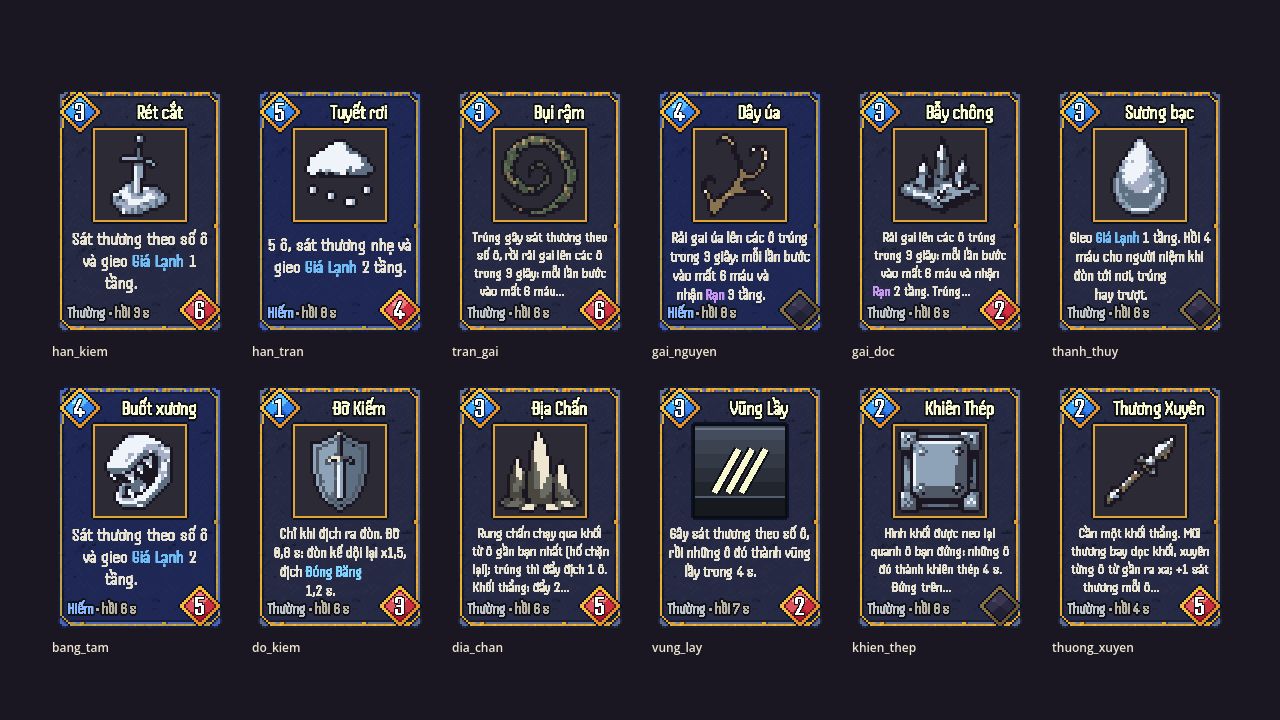
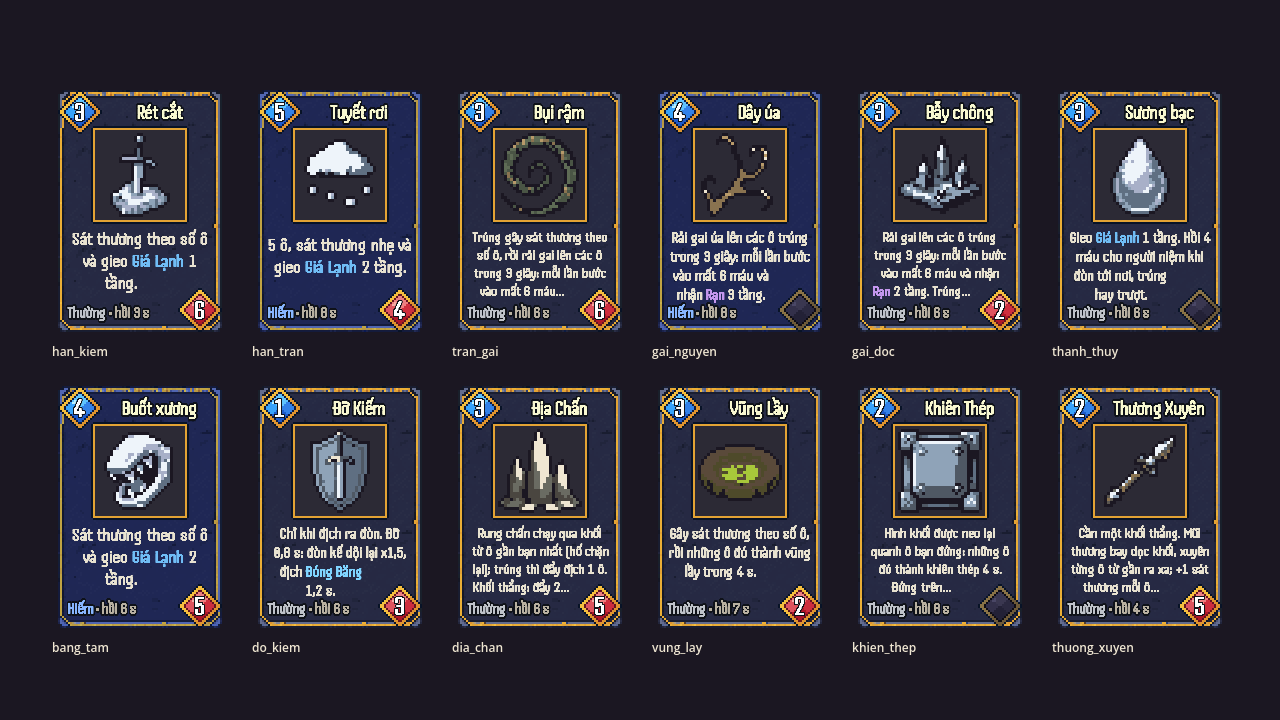
feat: card art for cuong_phong and vung_lay, all 62 cards now have art
- cuong_phong: curled ram horn (battering-ram concept failed 5 times)
- vung_lay: mire puddle with green bubbles; tessera_master.gpl gains the
  mire signal colours #A8C83A / #4E4A2A (67 entries, 3 over the 64 cap,
  user decision)
- registry: two new card.* entries installed (acceptance unknown)
- in-game gallery recaptured (production/qa/evidence/card-art)

Design: design/assets/references/ui/card-art.md,
design/assets/candidates/ui/card-art/batch3/REPORT-2026-11-13.md §11

Changed region(s): [[0.5312, 0.5806, 0.625, 0.7028]]

diff --git a/design/assets/asset-manifest.md b/design/assets/asset-manifest.md
@@ -8,9 +8,9 @@ Lifecycle: `candidate → accepted → installed → approved`; `legacy` = repla
 
 | Total | Candidate | Accepted | Installed | Approved | Legacy |
 |---|---|---|---|---|---|
-| 284 | 6 | 0 | 199 | 75 | 4 |
+| 286 | 6 | 0 | 201 | 75 | 4 |
 
-Acceptance recorded: unknown 196, pending 14, accepted 74, rejected 0.
+Acceptance recorded: unknown 198, pending 14, accepted 74, rejected 0.
 
 ## Needs the user's decision
 
@@ -332,6 +332,8 @@ Clip marks: `*` approved by the user, `+` accepted, `?` acceptance unknown, `!` 
 | `card.han_phong` | Card art 32x32: han_phong | `assets/art/cards/han_phong.png` | 32x32 | **installed** | unknown | no record | `design/assets/candidates/ui/card-art/batch3/prompts.json` |  |
 | `card.han_tran` | Card art 32x32: han_tran | `assets/art/cards/han_tran.png` | 32x32 | **installed** | unknown | no record | `design/assets/candidates/ui/card-art/batch3/prompts.json` |  |
 | `card.bang_tam` | Card art 32x32: bang_tam | `assets/art/cards/bang_tam.png` | 32x32 | **installed** | unknown | no record | `design/assets/candidates/ui/card-art/batch3/prompts.json` |  |
+| `card.cuong_phong` | Card art 32x32: cuong_phong | `assets/art/cards/cuong_phong.png` | 32x32 | **installed** | unknown | no record | `design/assets/candidates/ui/card-art/batch3/prompts.json` |  |
+| `card.vung_lay` | Card art 32x32: vung_lay | `assets/art/cards/vung_lay.png` | 32x32 | **installed** | unknown | no record | `design/assets/candidates/ui/card-art/batch3/prompts.json` |  |
 
 ## Loose textures
 
@@ -366,8 +368,6 @@ Clip marks: `*` approved by the user, `+` accepted, `?` acceptance unknown, `!` 
 | `portrait.sat_thu` | Character-select portrait 64x80 for sat_thu | design/assets/asset-manifest-2026-10-31-archive.md ASSET-002 (Needed); design/assets/entity-inventory.md rows 6-10; art bible §5.5 | character_select_view.gd draws the sheet's idle frame instead; paid generation needs the user's yes |
 | `portrait.tho_san` | Character-select portrait 64x80 for tho_san | design/assets/asset-manifest-2026-10-31-archive.md ASSET-002 (Needed); design/assets/entity-inventory.md rows 6-10; art bible §5.5 | character_select_view.gd draws the sheet's idle frame instead; paid generation needs the user's yes |
 | `portrait.giao_si` | Character-select portrait 64x80 for giao_si | design/assets/asset-manifest-2026-10-31-archive.md ASSET-002 (Needed); design/assets/entity-inventory.md rows 6-10; art bible §5.5 | character_select_view.gd draws the sheet's idle frame instead; paid generation needs the user's yes |
-| `card.vung_lay` | Card art 32x32: vung_lay | assets/data/cards.json (card exists); src/ui/card_face.gd CARD_ART_PATH convention | BLOCKED 2026-11-13: Mire: #A8C83A / #4E4A2A undefined (Master Reference §4.2 undefined); not generated |
-| `card.cuong_phong` | Card art 32x32: cuong_phong | assets/data/cards.json (card exists); src/ui/card_face.gd CARD_ART_PATH convention | batch3 2026-11-13: 5 pixflux attempts, none passed QA (edge contact or unreadable: box, scroll, cannon, cart); files in design/assets/candidates/ui/card-art/batch3/cuong_phong_a*.png; needs a new subject idea from the user |
 | `env.dungeon.slab_set` | Slab 9-slice + stamps: dungeon | assets/art/regions.json (region mapped, no env/dungeon/); design/assets/entity-inventory.md rows 81-94 | fallback flat bands drawn today (regions.json fallback_bands) |
 | `env.dungeon.backdrop` | Far backdrop 800x360: dungeon | assets/art/regions.json; design/assets/entity-inventory.md rows 81-94 | — |
 | `unit.dungeon.roster` | Enemy bodies + warden for dungeon | assets/data/chapters.json enemy ids with no sheet; design/assets/entity-inventory.md rows 22-78 | ids and count to confirm with the user: chapters.json mixes enemy ids with pattern ids, and the roster may change |

diff --git a/design/assets/candidates/ui/card-art/batch3/REPORT-2026-11-13.md b/design/assets/candidates/ui/card-art/batch3/REPORT-2026-11-13.md
@@ -124,3 +124,9 @@ Người dùng: "Gen lại 13 art cũ", rồi "sửa luôn 5 ảnh yếu đi".
 Cần người dùng: acceptance của hoa_xa (ảnh mới chưa được duyệt); tran_gai vẫn yếu.
 
 Chụp lại trong game 21:02 (`production/qa/evidence/card-art/gallery-1..6.png`, bản trước ở `before-replace/`): trang 1 giờ đồng bộ với bộ mới; còn yếu: tran_gai, kiem_khi (vệt chém hơi giống lông vũ).
+
+## 11. Hai card cuối (2026-11-13)
+
+Người dùng: "gen asset riêng cho nó". cuong_phong = sừng cừu cong (a7, ý tưởng đề xuất); vung_lay = vũng bùn bọt xanh (a1)
+sau khi thêm `#A8C83A` / `#4E4A2A` vào gpl (67 màu, vượt trần 3). 4 gen. **62/62 card có art, 62/62 đạt `audit_installed.py`**,
+registry 2 entry mới `installed`, chụp lại trong game (gallery-2, gallery-3).

diff --git a/production/qa/evidence/card-art/README.md b/production/qa/evidence/card-art/README.md
@@ -19,3 +19,6 @@ sessions' headless Godot jobs, user: "Chạy song song"). Previous capture kept 
 Observations: page 1 now matches the rest (same #2C2A35 background); gai_nguyen, thien_quang, bay_kep, min_tre read
 clearly; still weak: tran_gai (dim ring/spiral), kiem_khi (slash reads a little like a feather). Still code-drawn:
 cuong_phong, vung_lay.
+
+## Recapture 2026-11-13 (cuong_phong + vung_lay)
+All 62 cards now show a picture (cuong_phong = ram horn a7, vung_lay = mire puddle a1). Import 0 errors.
